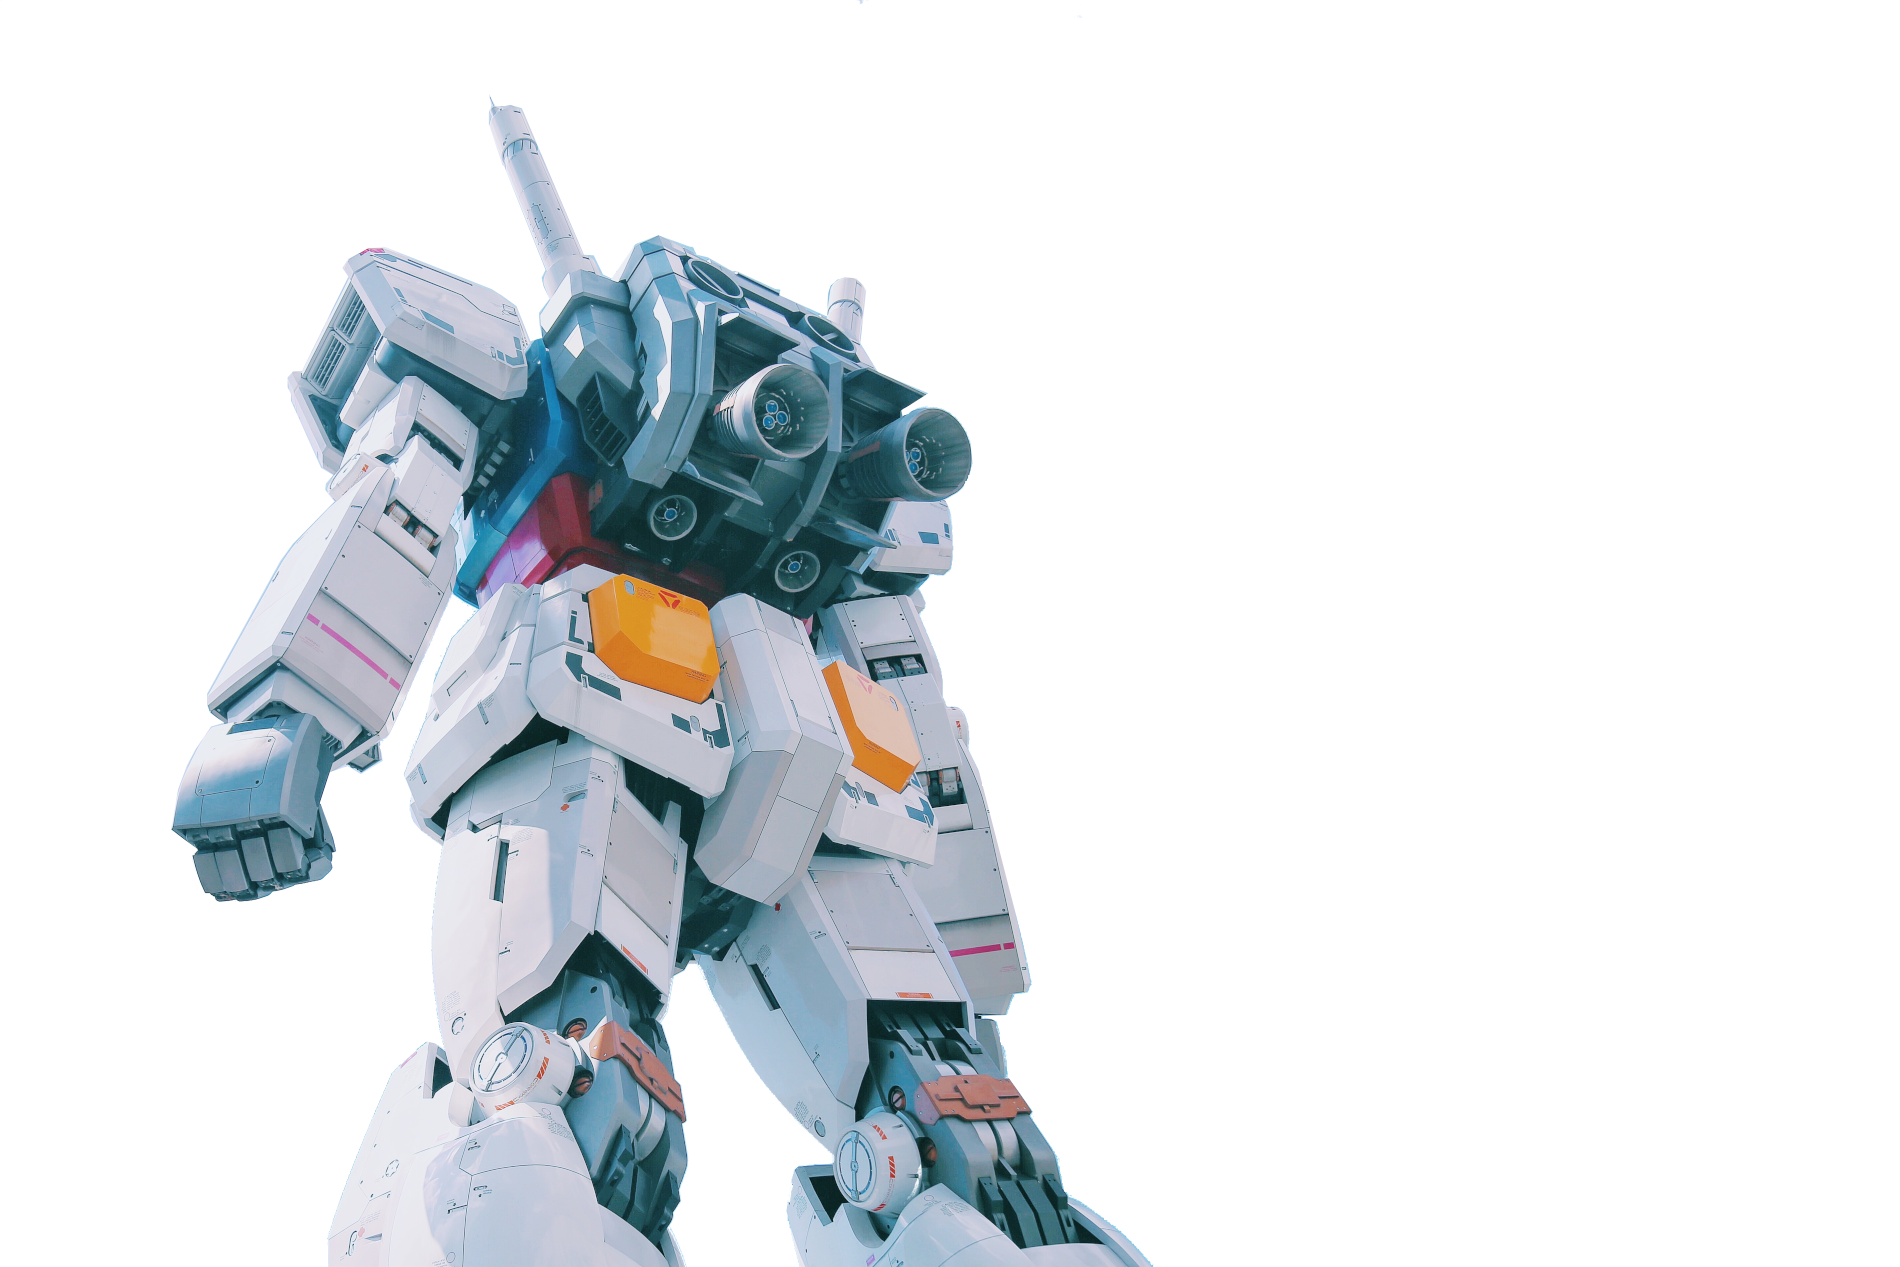
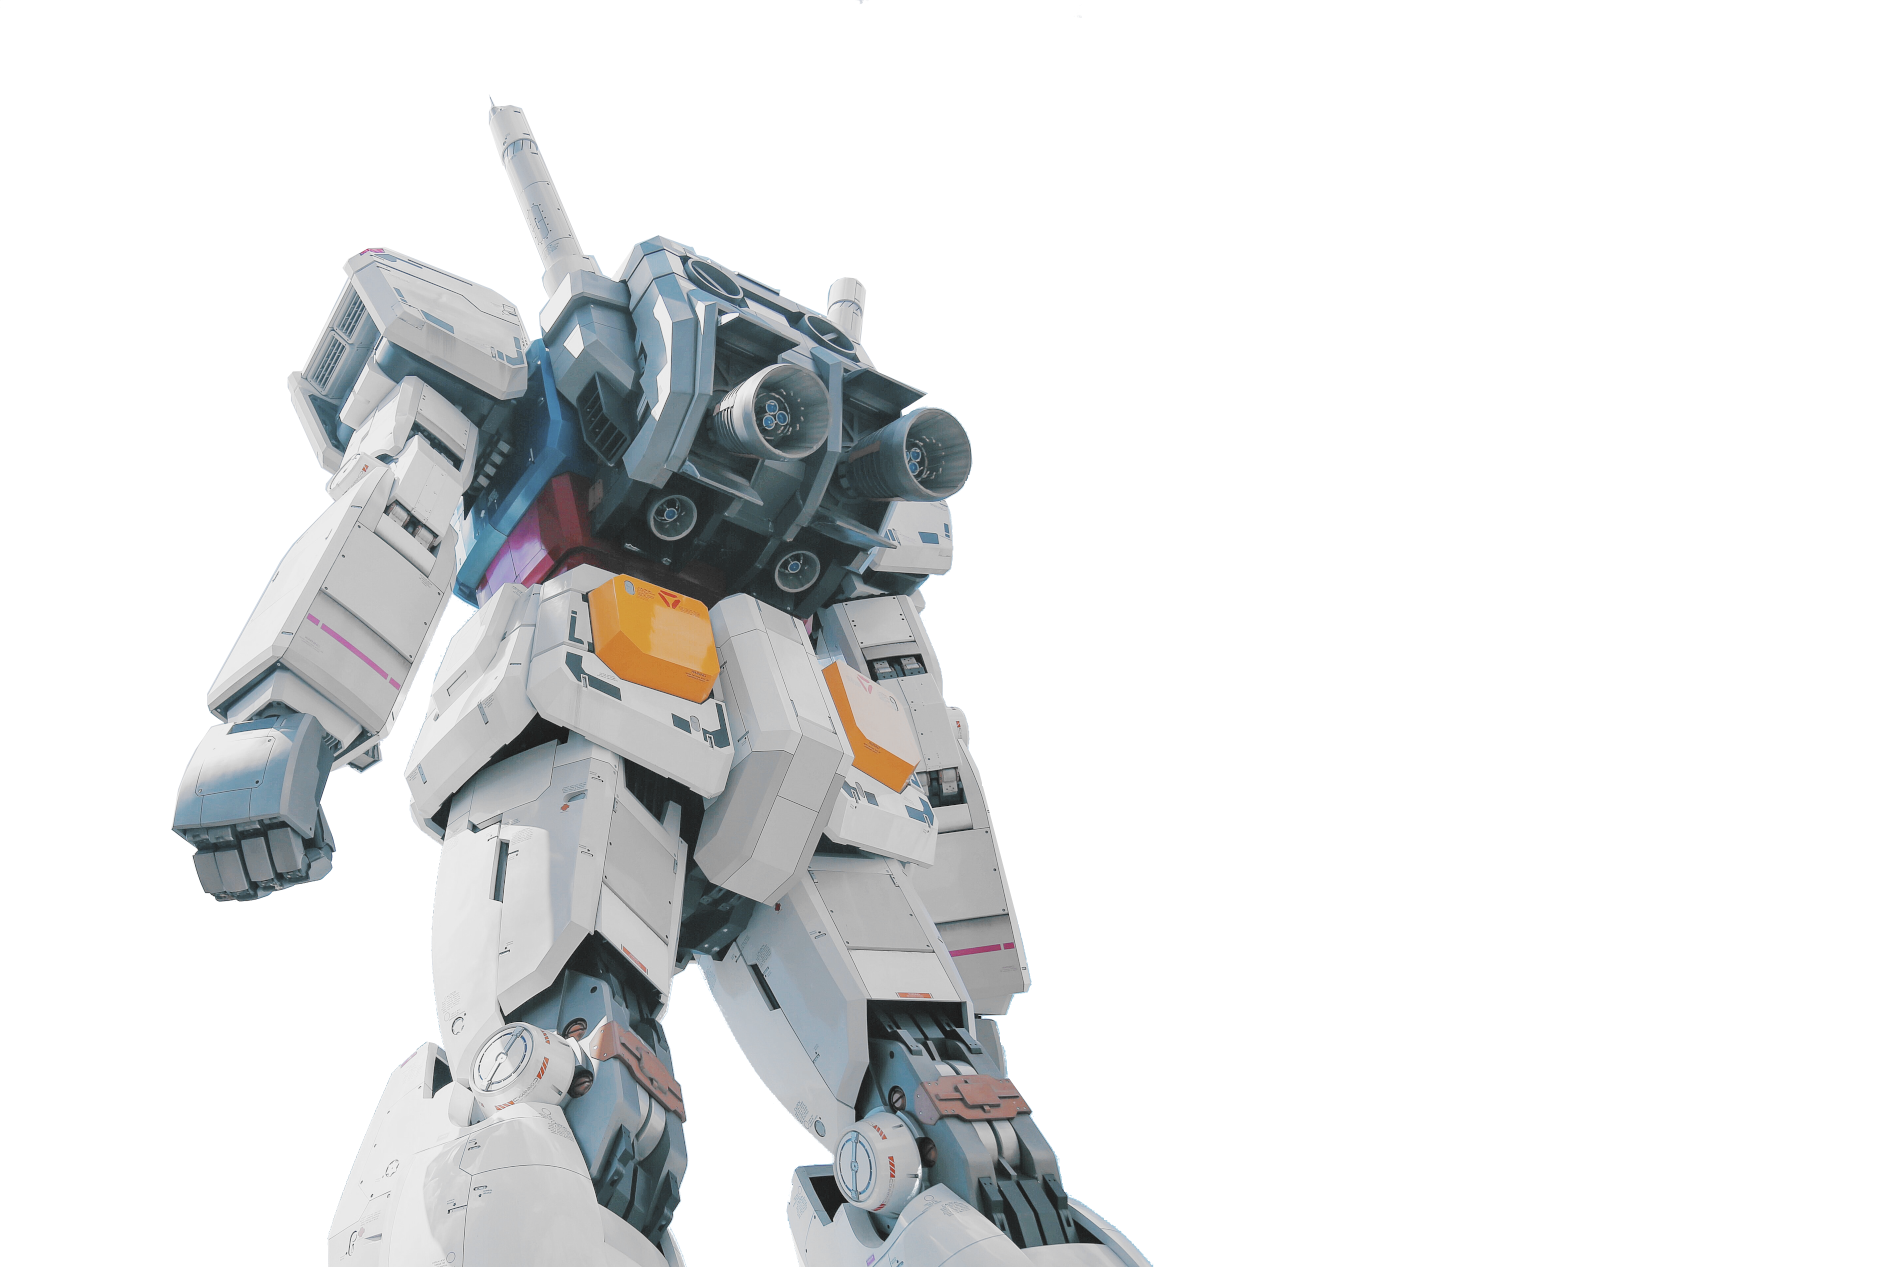
Fix small screen error and update cover pic

diff --git a/src/App.css b/src/App.css
@@ -168,7 +168,7 @@ header {
 }
 
 .about-container {
-  height: 100vh;
+  min-height: 100vh;
   max-width: 700px;
   display: flex;
   flex-direction: column;
@@ -188,7 +188,7 @@ Layout (Thumbnails)
 }
 
 .thumbnail-collection {
-  height: 100vh;
+  min-height: 100vh;
   border: 0;
   border-top: 4.5rem solid black;
   display: -webkit-flex; /* Safari */
